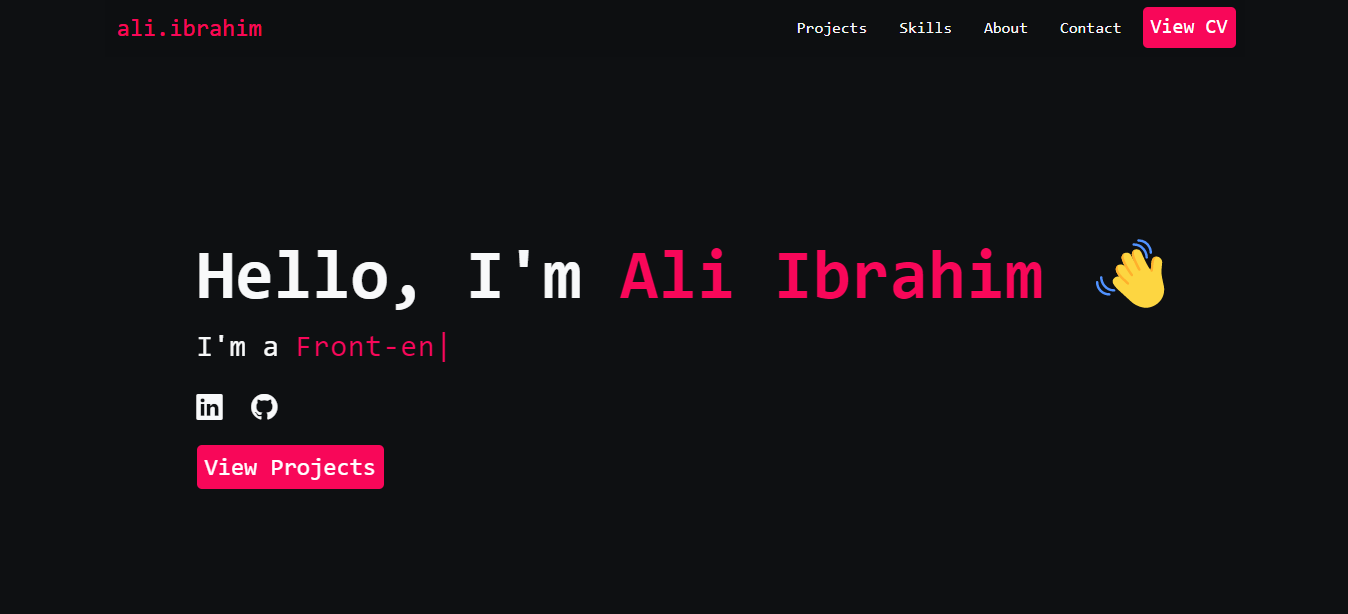
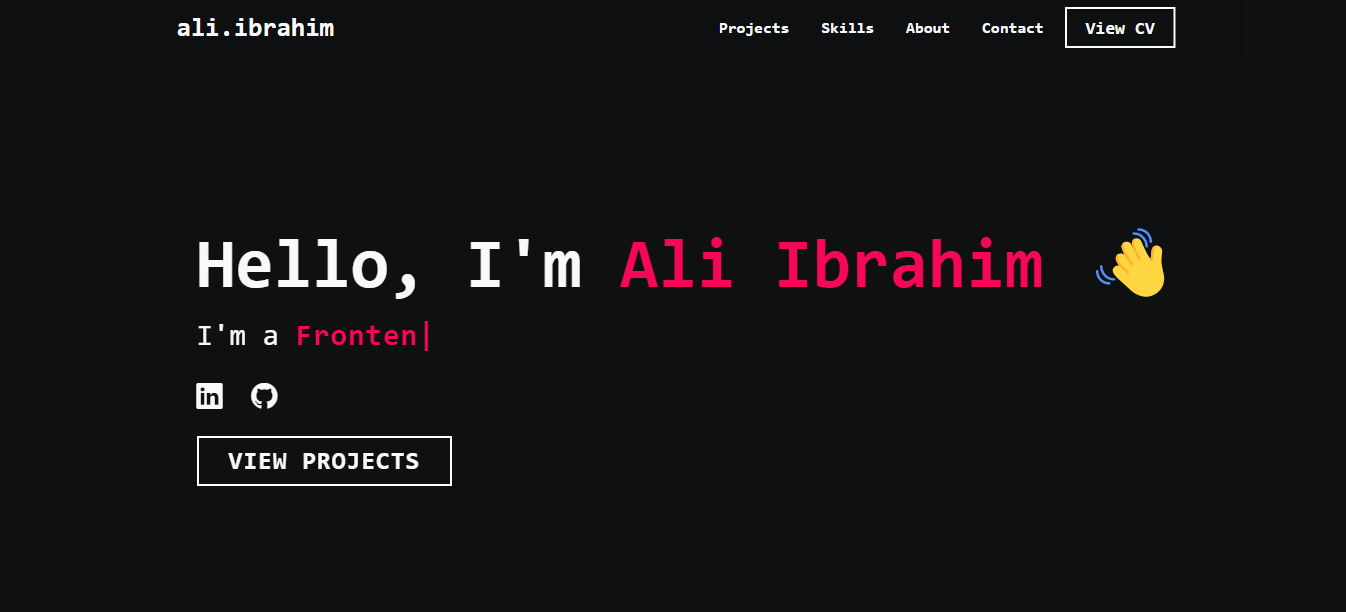
animation duration added to about and contacts sections + portfolio image update

diff --git a/index.html b/index.html
@@ -44,7 +44,7 @@
 
     <!----- Hero Section ----->
     <section id="hero" class="d-flex flex-column justify-content-center">
-      <div class="container" data-aos="fade-up" >
+      <div class="container" data-aos="fade-up">
         <h1>Hello, I'm <span style="color: #f80759;">Ali Ibrahim 👋</span></h1>
         <p>
           I'm a
@@ -55,7 +55,7 @@
           <a href="https://github.com/edocai" target="_blank"><i class="bi bi-github"></i></a>
         </div>
         <div class="kmbtn">
-          <p data-aos="fade-left" data-aos-delay="400">
+          <p data-aos="fade-left" data-aos-delay="500">
             <a class="btn__projects scrollto" rel="noreferrer" href="#projects"><span style="color: #f8f9fa;">View Projects</span></a>
           </p>
         </div>
@@ -212,7 +212,7 @@
           </div>
 
           <div>
-            <div data-aos="fade-up" class="row content__about">
+            <div data-aos="fade-up" data-aos-delay="300" class="row content__about">
               <p>
                 I consider myself an enthusiastic developer that enjoys learning new things and creating interactive 
                 online applications and experiences. I am dedicated and have the capacity to keep up with industry and 
@@ -234,7 +234,7 @@
           <div class="section-title" data-aos="fade-up">
             <h2>Contact</h2>
           </div>
-      <div class="wrapper" data-aos="fade-up">
+      <div class="wrapper" data-aos="fade-up" data-aos-delay="300">
           <div class="map-content">
             <form action="https://formsubmit.co/ali.ibrahim7012@outlook.com" method="post">
               <div class="twice-two">

diff --git a/src/dist/css/style.css b/src/dist/css/style.css
@@ -191,25 +191,6 @@ body {
   margin-top: 25px;
 }
 
-.cta-about {
-  border-color: #f80759;
-  font-size: 24px;
-  font-weight: 545;
-  border-radius: 5px;
-  color: #fff;
-  -webkit-box-shadow: 0 0 40px 40px #f80759 inset, 0 0 0 0 #f80759;
-          box-shadow: 0 0 40px 40px #f80759 inset, 0 0 0 0 #f80759;
-  -webkit-transition: all .2s ease-in-out;
-  transition: all .2s ease-in-out;
-  padding: 8px !important;
-}
-
-.cta-about:hover {
-  -webkit-box-shadow: 0 0 10px 0 #f80759 inset, 0 0 10px 4px #f80759;
-          box-shadow: 0 0 10px 0 #f80759 inset, 0 0 10px 4px #f80759;
-  color: #f8f9fa;
-}
-
 .btn__projects {
   border: 0 solid;
   -webkit-box-sizing: border-box;
@@ -774,12 +755,6 @@ a {
   }
   .navbar-links ul li a {
     padding: .5rem 1rem;
-  }
-  .navbar-links .cta-about {
-    width: 50%;
-    position: relative;
-    left: 25%;
-    text-align: center;
   }
   .navbar-links.active {
     display: -webkit-box;

diff --git a/src/scss/style.scss b/src/scss/style.scss
@@ -175,22 +175,6 @@ body {
     margin-top: 25px;
 }
 
-.cta-about {
-    border-color: #f80759;
-    font-size: 24px;
-    font-weight: 545;
-    border-radius: 5px;
-    color: #fff;
-    box-shadow: 0 0 40px 40px #f80759 inset, 0 0 0 0 #f80759;
-    transition: all .2s ease-in-out;
-    padding: 8px !important;
-
-    &:hover {
-        box-shadow: 0 0 10px 0 #f80759 inset, 0 0 10px 4px #f80759;
-        color: #f8f9fa;
-    }
-}
-
 .btn__projects {
     border: 0 solid;
     box-sizing: border-box;
@@ -692,14 +676,7 @@ a {
                 }
             }
         }
-
-        .cta-about {
-            width: 50%;
-            position: relative;
-            left: 25%;
-            text-align: center;
-        }
-    }
+}
 
     .navbar-links.active {
         display: flex;
